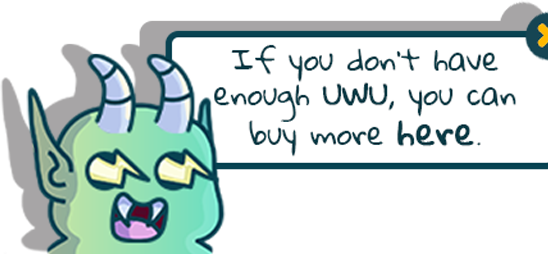
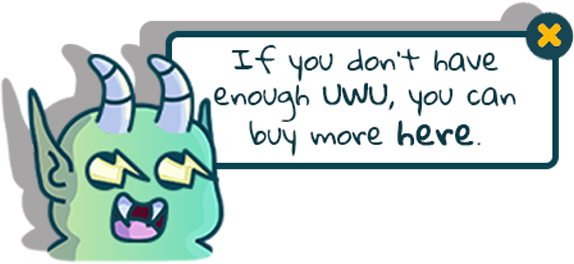
lootboxes

Changed region(s): [[0.031, 0.0, 1.0, 1.0], [0.0, 0.6614, 0.031, 0.7165], [0.0, 0.2756, 0.031, 0.3307]]

diff --git a/style.css b/style.css
@@ -81,11 +81,14 @@
     color: antiquewhite !important;    
 }
 .box1>h3{
-   
     font-size: 2em;
+    margin-left: 50px;
 }
-
-
+.box1>p{
+    margin-left: 50px;
+    margin-top: -20px;
+}
+ 
 .box2{
     font-size: x-large;
     width: 50%;
@@ -96,6 +99,7 @@
      
     font-size: 2em;
 }
+
 .box>p{ 
     vertical-align: middle;
     justify-content: center;
@@ -124,7 +128,7 @@
     width: 548px;
     height: 254px;
     bottom: 25px;
-    position: absolute;
+    position: fixed;
     background-image: url(resources/Popup.png);
     background-repeat: no-repeat;
     background-color: transparent;
@@ -174,7 +178,9 @@
     background-color: #146167;
     border-radius: 40px 0 0;
     margin-top: -15px;
-    margin-right: -25px;
+    margin-right: -50px;
+    font-size: 2.5em;   
+
 }
 
 .box2>h1{
@@ -182,6 +188,7 @@
     border-radius: 0 40px 0 0;
     margin-top: -15px;
     margin-left: -25px;
+    font-size: 2.5em;
 
 }    
 .val{

diff --git a/index.html b/index.html
@@ -32,7 +32,7 @@
 
                         <div class="num" id="num"> 
                             <div class="sus" id="sus1"></div>
-                            <div class="val" id="val1">0</div>    
+                            <div class="val" id="val1">000</div>    
                             <div class="add" id="add1"></div>    
                         </div>
                         <button class="mint-button">Mint</button>
@@ -45,7 +45,7 @@
 
                         <div class="num" id="num"> 
                             <div class="sus" id="sus2"></div>
-                            <div class="val" id="val2">0</div>    
+                            <div class="val" id="val2">000</div>    
                             <div class="add" id="add2"></div>    
                         </div>
                         <button class="mint-button">Mint</button>
